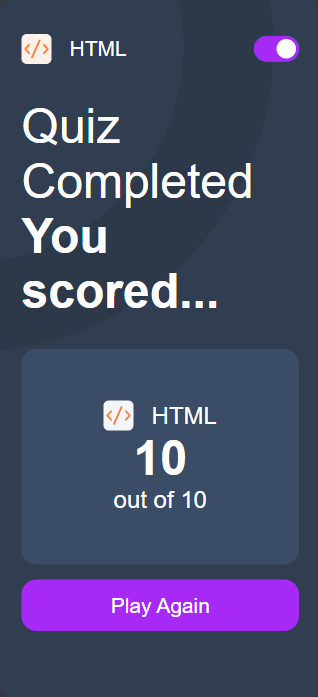
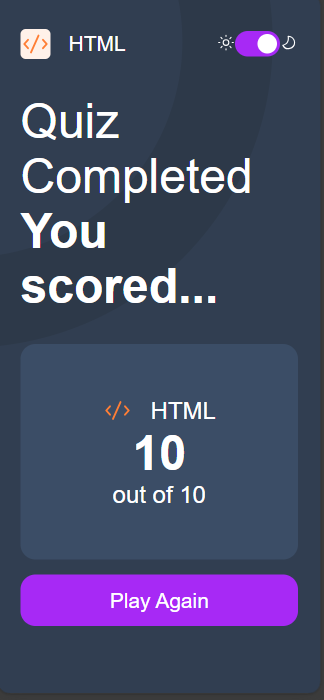
Frontend Quiz App

diff --git a/Frontend Quiz App/src/header/header.styles.ts b/Frontend Quiz App/src/header/header.styles.ts
@@ -44,7 +44,6 @@ export const GlobalStyle = createGlobalStyle<{
   }
 
   img {
-    background-color: #f4f6fa;
     border-radius: 7px;
   }
 

diff --git a/Frontend Quiz App/README.md b/Frontend Quiz App/README.md
@@ -48,23 +48,23 @@ Users should be able to:
 
 ### Screenshot
 
-![](/public/Screenshots/dark_completedpage.png)
-![](/public/Screenshots/dark_completedpage_mobile.png)
-![](/public/Screenshots/dark_homepage.png)
-![](/public/Screenshots/dark_homepage_mobile.png)
-![](/public/Screenshots/dark_questionpage.png)
-![](/public/Screenshots/dark_questionpage_mobile.png)
-![](/public/Screenshots/light_completedpage.png)
-![](/public/Screenshots/light_completedpage_mobile.png)
-![](/public/Screenshots/light_homepage.png)
-![](/public/Screenshots/light_homepage_mobile.png)
-![](/public/Screenshots/light_questionpage.png)
-![](/public/Screenshots/light_questionpage_mobile.png)
+![](/public/dark_completedpage.png)
+![](/public/dark_completedpage_mobile.png)
+![](/public/dark_homepage.png)
+![](/public/dark_homepage_mobile.png)
+![](/public/dark_questionpage.png)
+![](/public/dark_questionpage_mobile.png)
+![](/public/light_completedpage.png)
+![](/public/light_completedpage_mobile.png)
+![](/public/light_homepage.png)
+![](/public/light_homepage_mobile.png)
+![](/public/light_questionpage.png)
+![](/public/light_questionpage_mobile.png)
 
 ### Links
 
 - Github URL: [https://github.com/Pa-ppy/Frontend-Quiz-App]
-- Live Site URL: []
+- Live Site URL: [https://f-endquizapp.netlify.app/]
 
 ## My process
 
